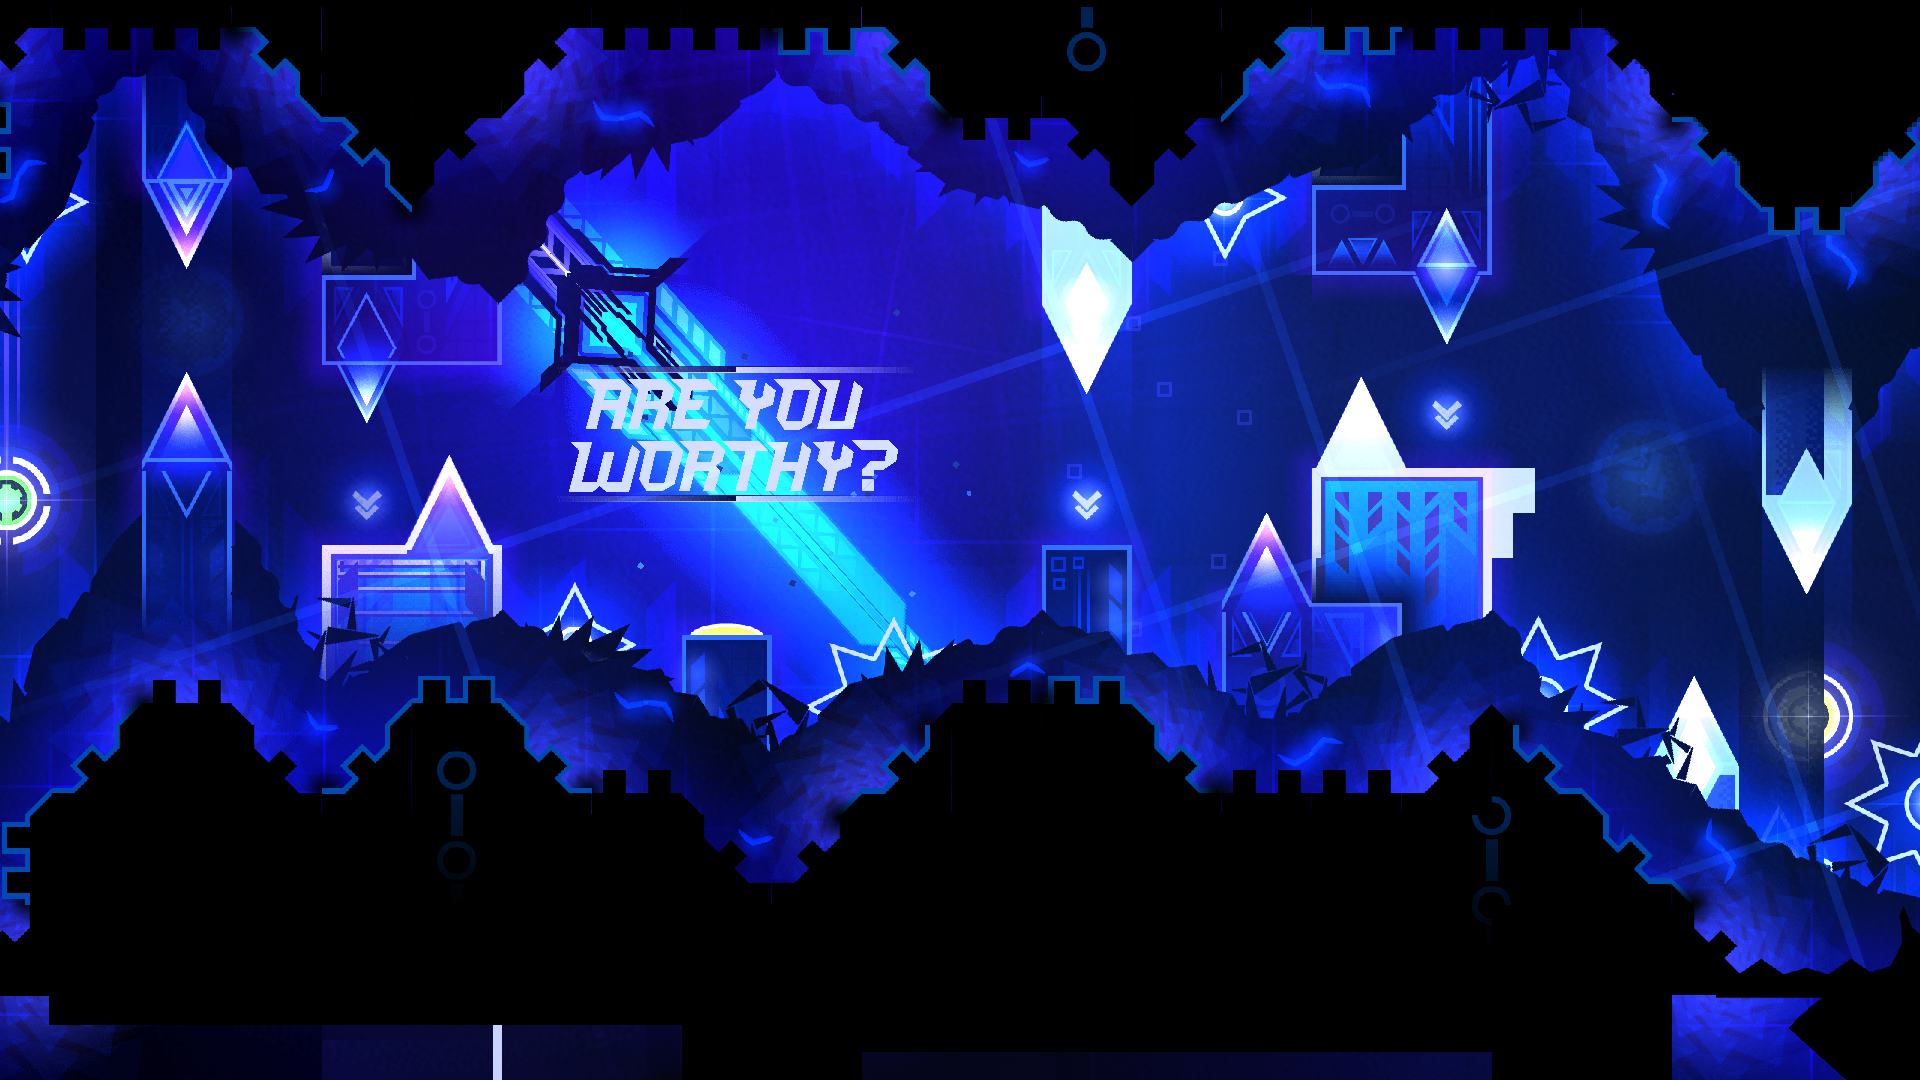
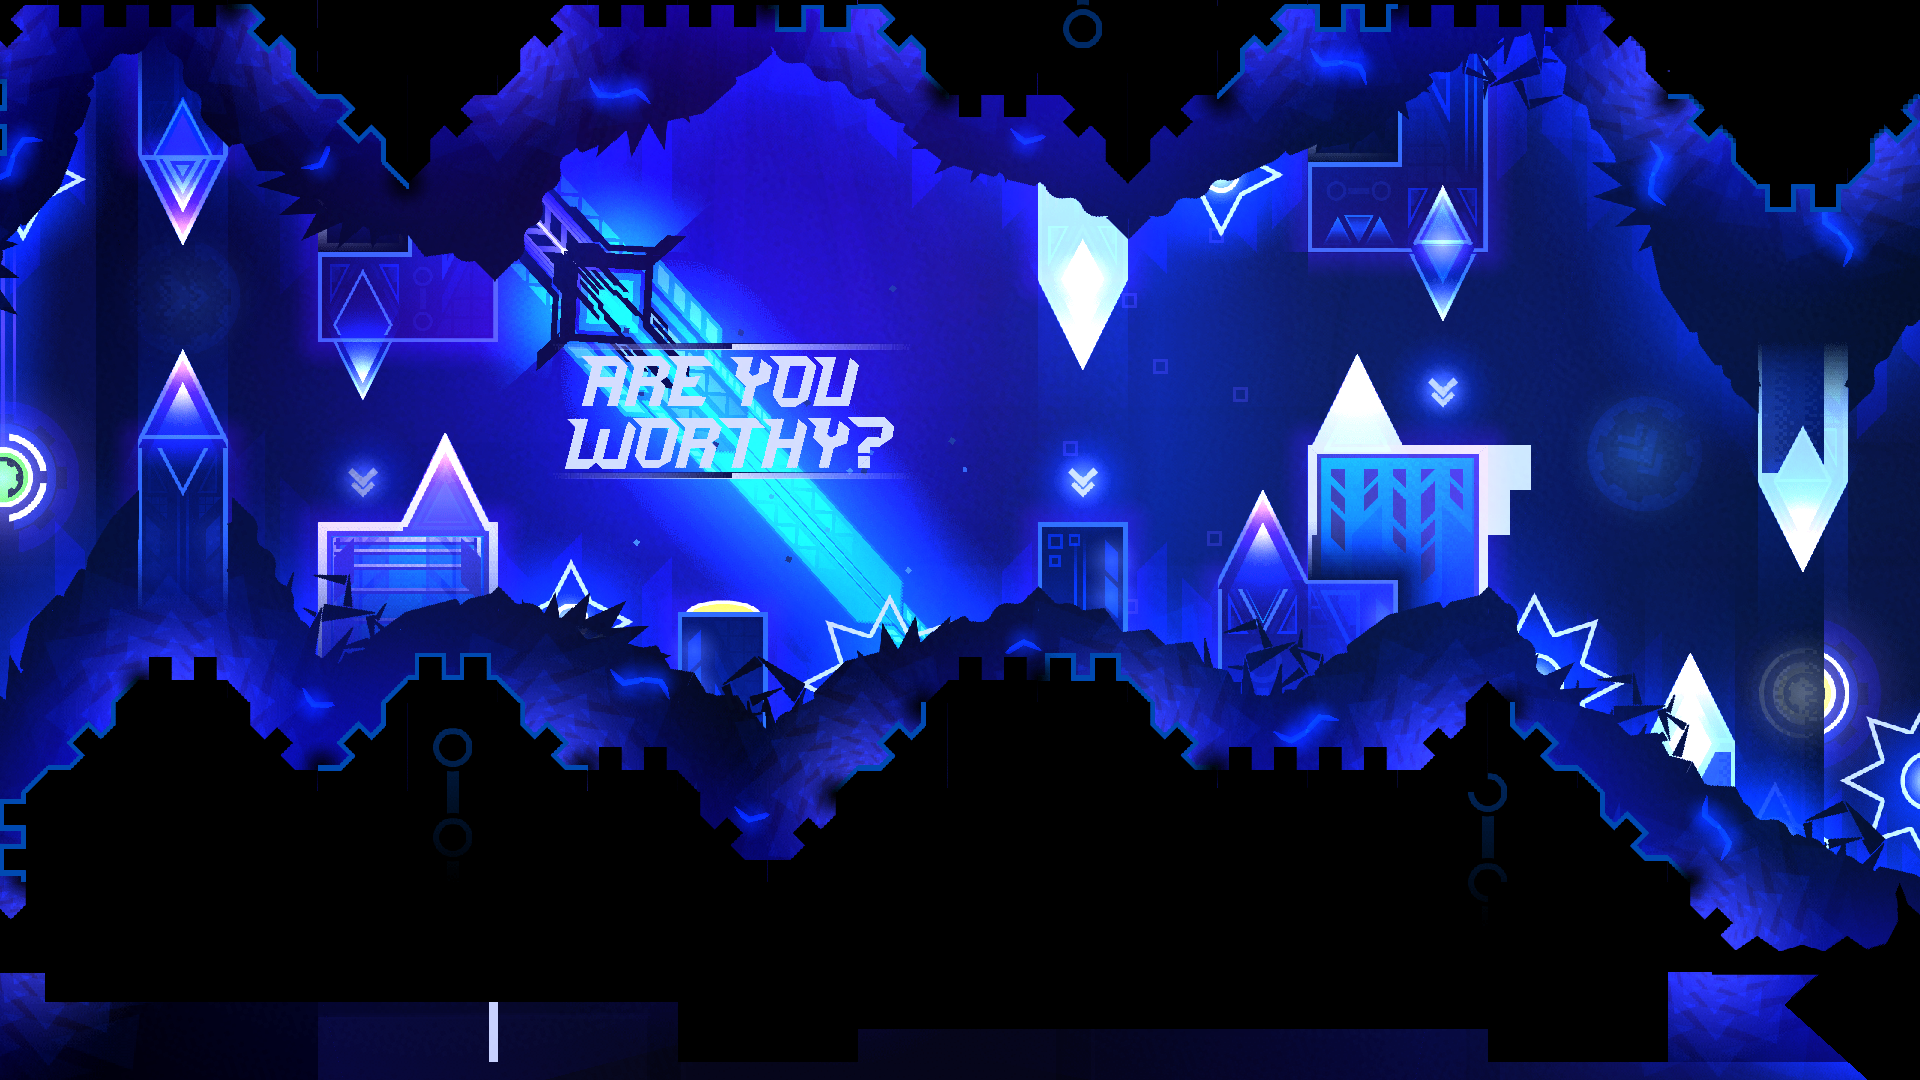
g

diff --git a/GD/Application.cpp b/GD/Application.cpp
@@ -8,7 +8,7 @@
 #define IMGUI 1
 
 Application* Application::instance;
-const float Application::zoomModifier = 1.f;
+const float Application::zoomModifier = 3.f;
 
 void Application::start()
 {
